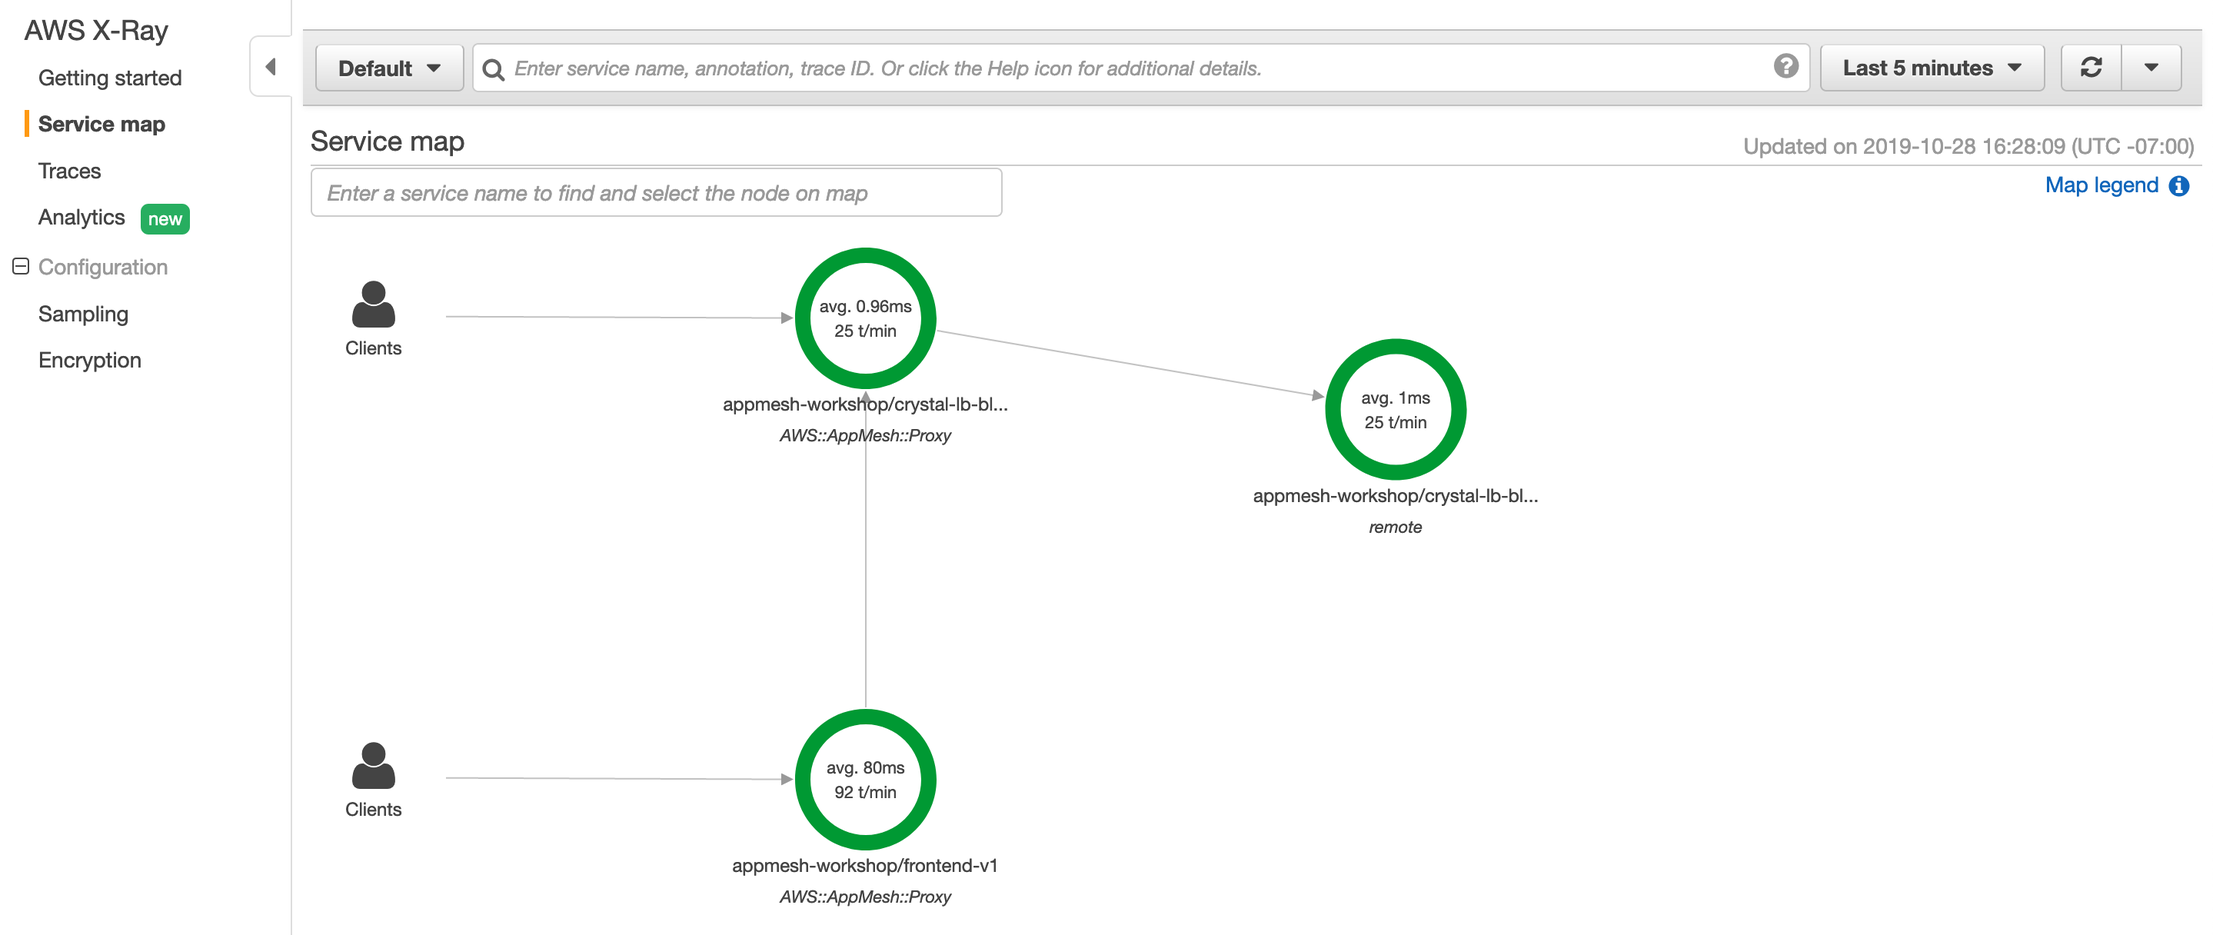
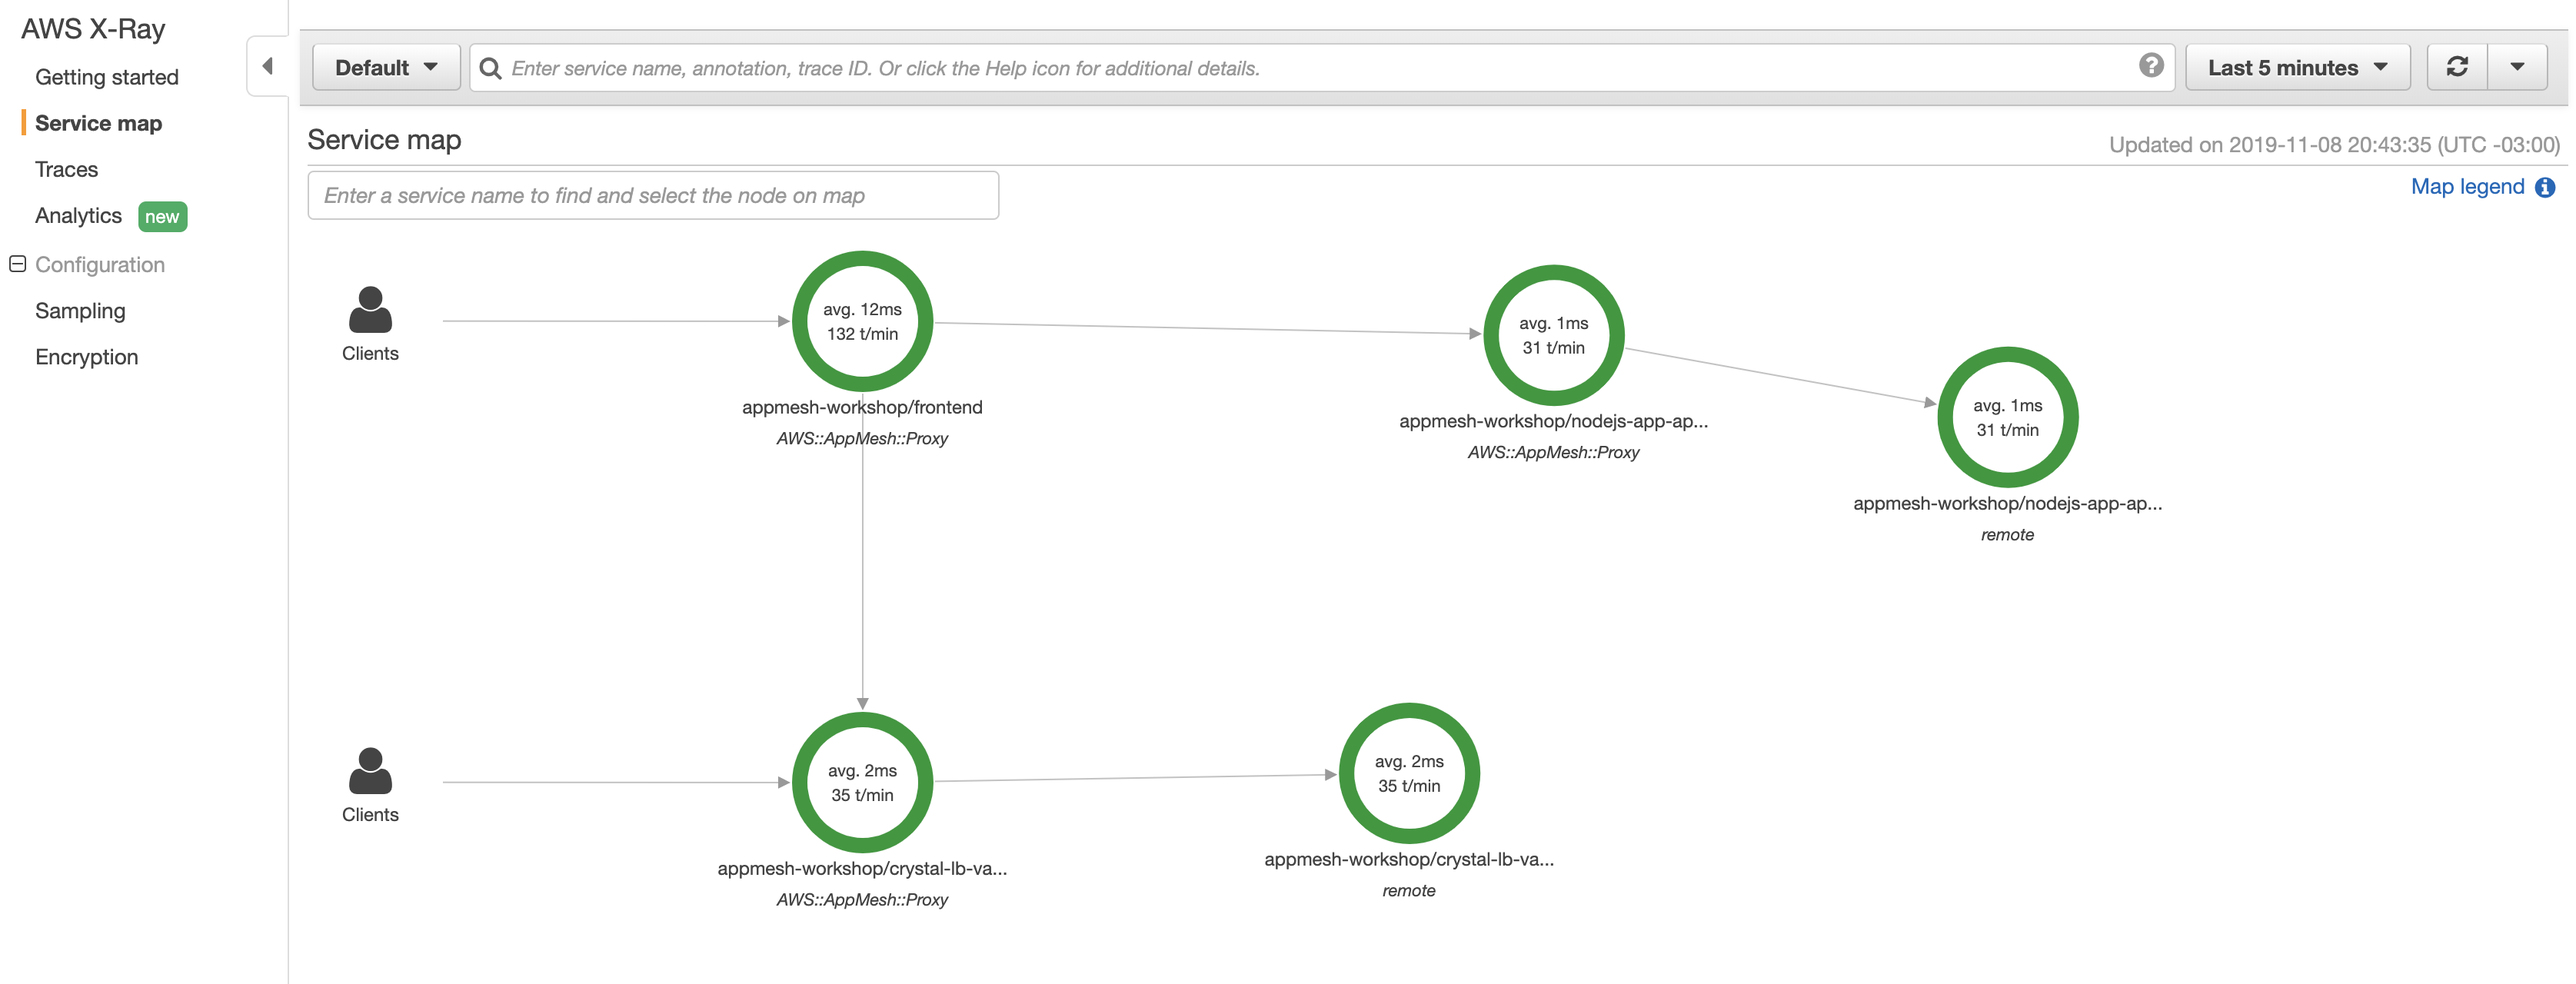
X-Ray with NodeJS App

diff --git a/content/x-ray/xray_nodejs.md b/content/x-ray/xray_nodejs.md
@@ -6,14 +6,26 @@ weight: 11
 
 Let's now enable the X-Ray integration to the NodeJS app currently running on the EKS cluster. 
 
-The first step is to 
+The first step is to change the EC2 IAM roles so the pods will be able to send information to X-Ray:
 
+```bash
+# Get CloudFormation EKS stack name
+EKS_STACK_NAME=$(eksctl utils describe-stacks --cluster NewEksCluster | sed -n '3p' | cut -d '/' -f2 | cut -d ' ' -f 1)
 
-AUTO_SCALING_GROUP=$(jq < cfn-output.json -r '.RubyAutoScalingGroupName');
-INSTANCE_PROFILE_NAME=$(aws ec2 describe-instances --filters Name=tag:aws:autoscaling:groupName,Values=$AUTO_SCALING_GROUP | jq -r ' .Reservations | first | .Instances | first | .IamInstanceProfile | .Arn' | cut -d '/' -f 2)
-EKS_WORKERS_ROLE=$(aws iam get-instance-profile --instance-profile-name $INSTANCE_PROFILE_NAME | jq -r '.InstanceProfile.Roles[].RoleName')
+# Get Node Group EC2 IAM role name
+ROLE_NAME=$(aws cloudformation describe-stacks \
+--stack-name "$EKS_STACK_NAME" | \
+jq -r '[.Stacks[0].Outputs[] | 
+{key: .OutputKey, value: .OutputValue}] | from_entries' | 
+jq -r '.InstanceRoleARN' |
+cut -d ':' -f 6 | cut -d '/' -f 2)
 
+# Add X-Ray policy
+aws iam attach-role-policy --role-name $ROLE_NAME \
+--policy-arn arn:aws:iam::aws:policy/AWSXRayDaemonWriteAccess
+```
 
+Now that the policies are in place, we need to change the configurations in the App Mesh injector in order to also add the X-Ray container to the pods and configure the Envoy proxy to send data to it:
 
 ```bash
 helm upgrade -i appmesh-inject eks/appmesh-inject \
@@ -23,3 +35,58 @@ helm upgrade -i appmesh-inject eks/appmesh-inject \
 --set tracing.enabled=true \
 --set tracing.provider=x-ray
 ```
+
+Finally, let's restart our pods again in order to force the injection of the X-Ray container:
+
+```bash
+kubectl delete pods -n appmesh-workshop-ns --all 
+```
+
+Let's now check if the X-Ray container was injected in your pod:
+
+```bash
+# Get a single pod name
+NODEJS_POD=$(kubectl get pod --no-headers=true -o \
+name -n appmesh-workshop-ns \
+| awk -F "/" '{print $2}' | \
+head -n 1)
+
+# Describe pod configuration
+kubectl describe pod $NODEJS_POD -n appmesh-workshop-ns
+```
+
+You should see information about the X-Ray daemon container:
+
+```text
+  xray-daemon:
+    Container ID:   docker://47197806db6f658047b12f3905be802ce1e0f58b02b9f94d2ef733e98b6fe4a0
+    Image:          amazon/aws-xray-daemon
+    Image ID:       docker-pullable://amazon/aws-xray-daemon@sha256:5d30d974bd7bd5a864a2d6d4d4696902153d364cc0943efca8ea44e6bf16c1c2
+    Port:           2000/UDP
+    Host Port:      0/UDP
+    State:          Running
+      Started:      Fri, 08 Nov 2019 23:32:09 +0000
+    Ready:          True
+    Restart Count:  0
+    Requests:
+      cpu:        10m
+      memory:     32Mi
+    Environment:  <none>
+    Mounts:       <none>
+Conditions:
+  Type              Status
+  Initialized       True 
+  Ready             True 
+  ContainersReady   True 
+  PodScheduled      True 
+Volumes:
+  default-token-82w67:
+    Type:        Secret (a volume populated by a Secret)
+    SecretName:  default-token-82w67
+    Optional:    false
+QoS Class:       Burstable
+Node-Selectors:  <none>
+Tolerations:     node.kubernetes.io/not-ready:NoExecute for 300s
+                 node.kubernetes.io/unreachable:NoExecute for 300s
+```
+

diff --git a/content/mesh_nodejs/restart_pods.md b/content/mesh_nodejs/restart_pods.md
@@ -37,7 +37,7 @@ kubectl describe pod $NODEJS_POD -n appmesh-workshop-ns
 
 Take a look in the output of this command. You should see the Envoy container image as part of your pod:
 
-```bash
+```text
   envoy:
     Container ID:   docker://5a1e9b03d8c89e6db4797010b1970ee8f1ee930c565990960f7753a06a912970
     Image:          840364872350.dkr.ecr.us-west-2.amazonaws.com/aws-appmesh-envoy:v1.11.2.0-prod
@@ -79,7 +79,7 @@ curl -v http://nodejs.appmeshworkshop.hosted.local:3000/
 
 You should see a response comming from the NodeJS microservice running in the EKS cluster. In this response, look for `envoy` in the `server` parameter:
 
-```
+```text
 *   Trying 10.0.100.206...
 * TCP_NODELAY set
 * Connected to nodejs.appmeshworkshop.hosted.local (10.0.100.206) port 3000 (#0)

diff --git a/content/x-ray/reviewtraces.md b/content/x-ray/reviewtraces.md
@@ -4,9 +4,7 @@ date: 2018-09-18T16:01:14-05:00
 weight: 20
 ---
 
-Access the ECS console and find the latest revision of your Crystal task definition. Notice there are 3 containers declared, one for the Crystal microservice, one for the Envoy proxy and a third one for the X-Ray deamon.
-
-Now access the AWS Admin console and go to the X-Ray service. Once in the X-Ray section of the console, select **Service Map** from the left hand side menu. Wait a few seconds for the service map to render.
+Now access the [X-Ray console](console.aws.amazon.com/xray/home). Once in the X-Ray console, select **Service Map** from the left hand side menu. Wait a few seconds for the service map to render.
 
 You will see something like this:
 
